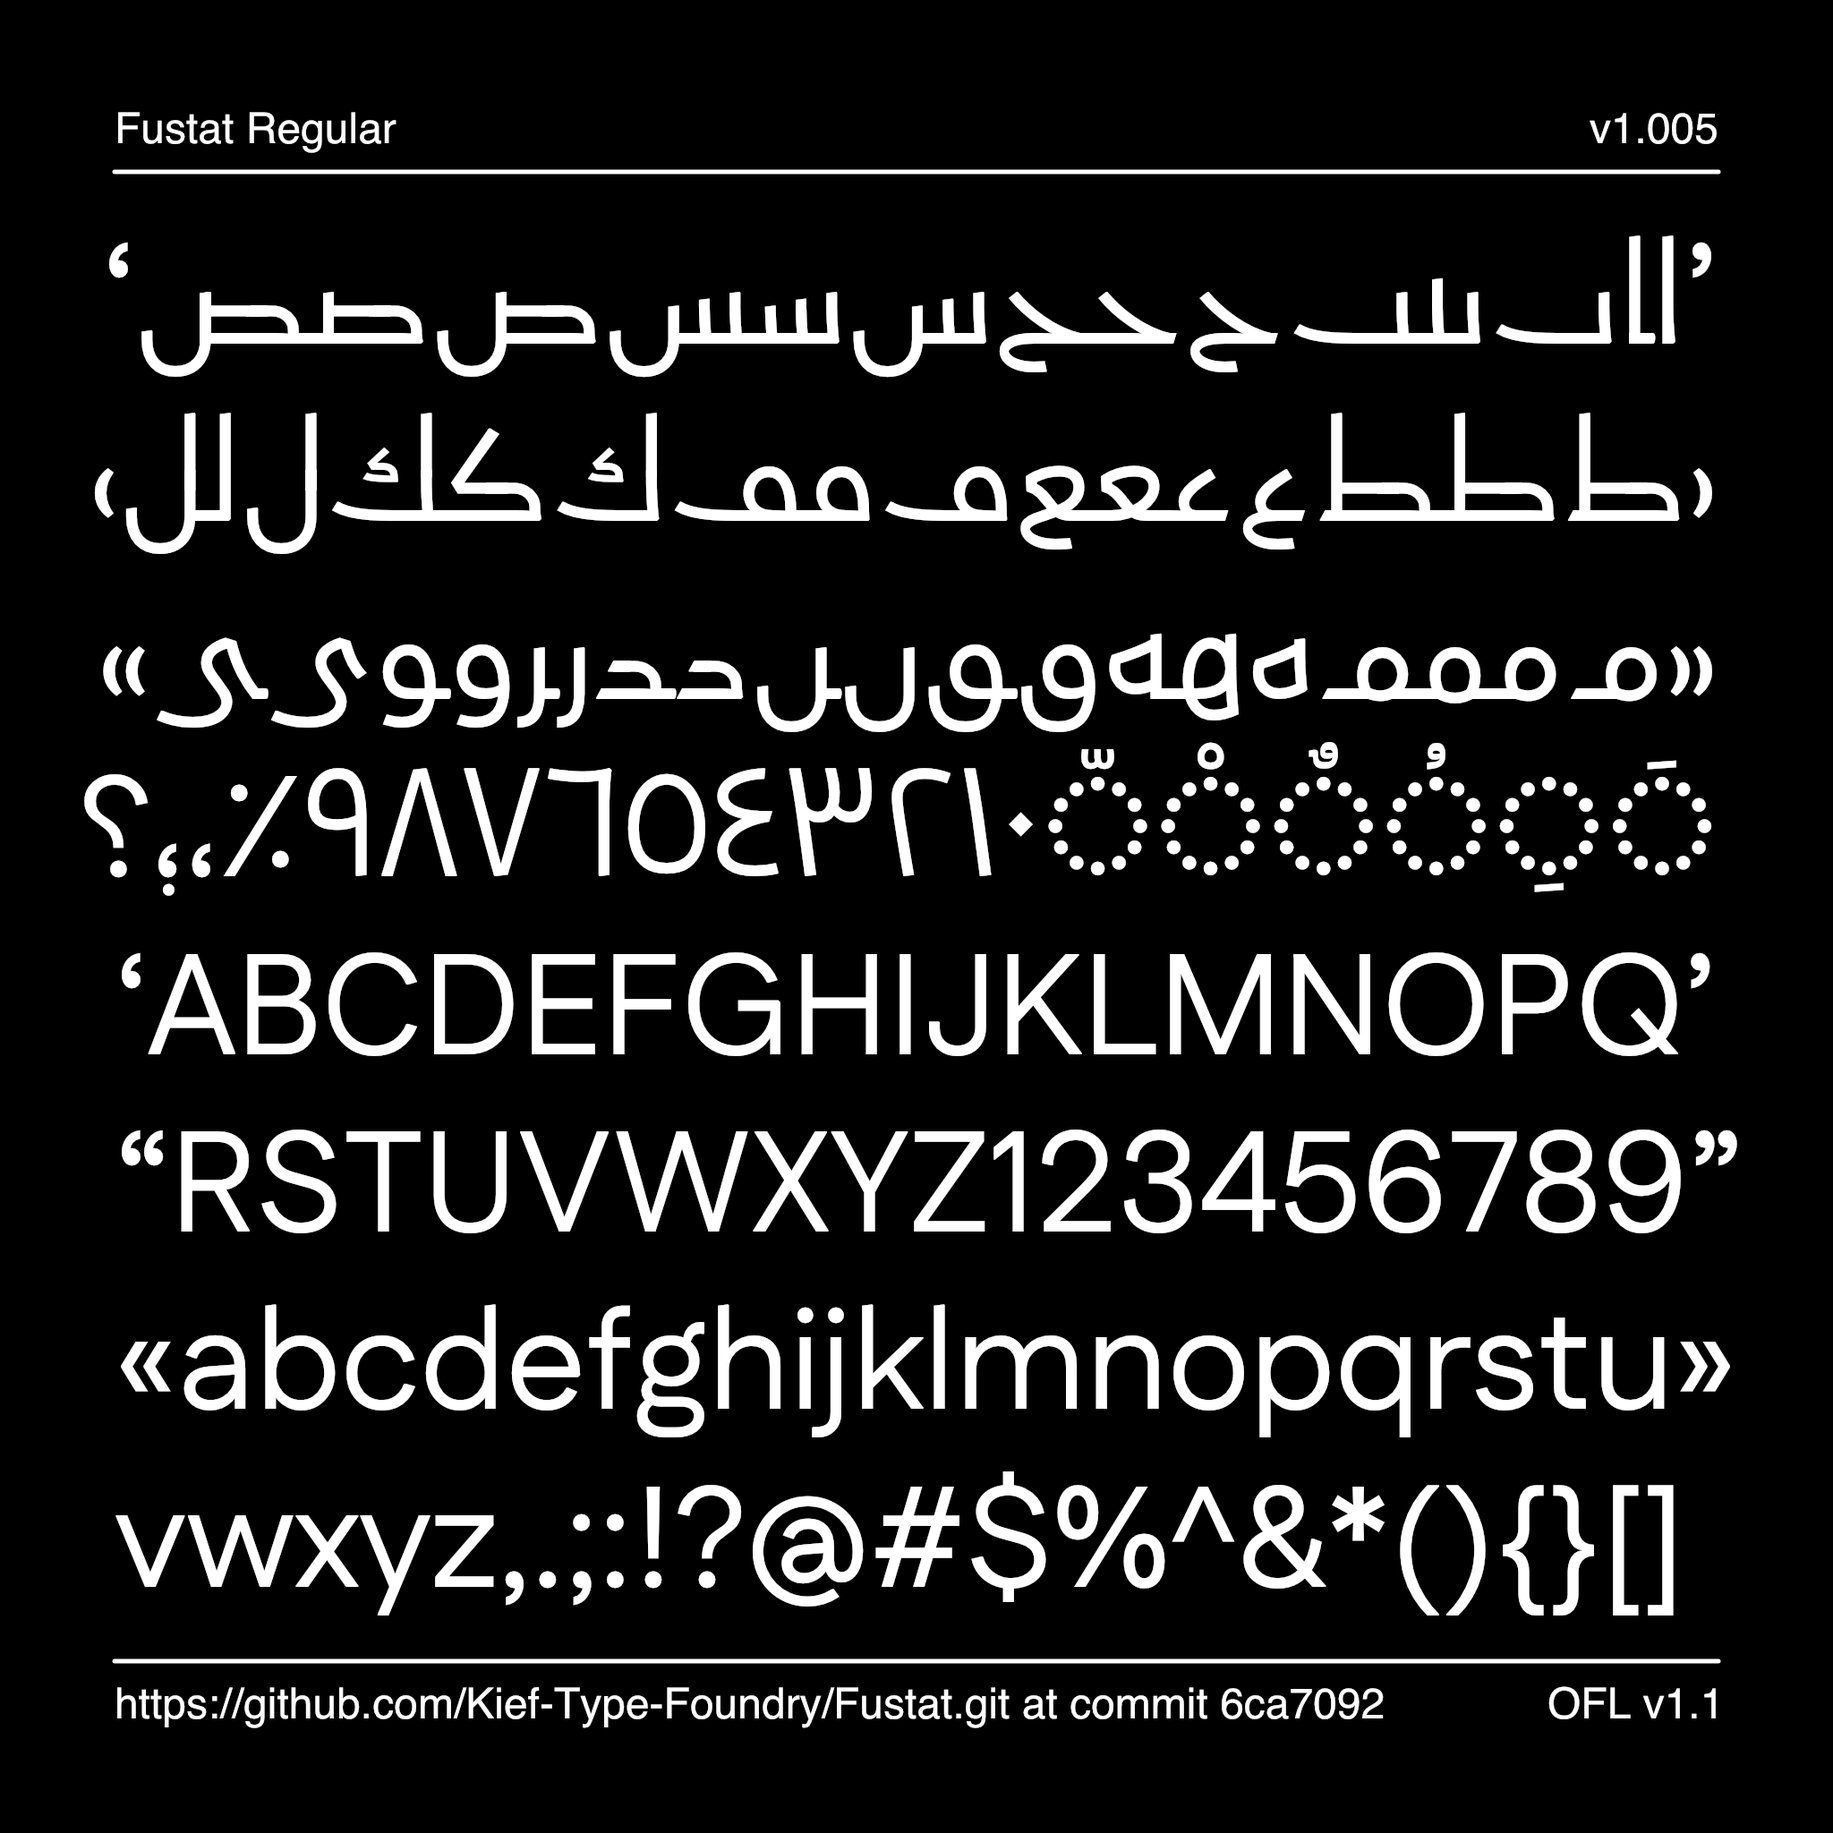
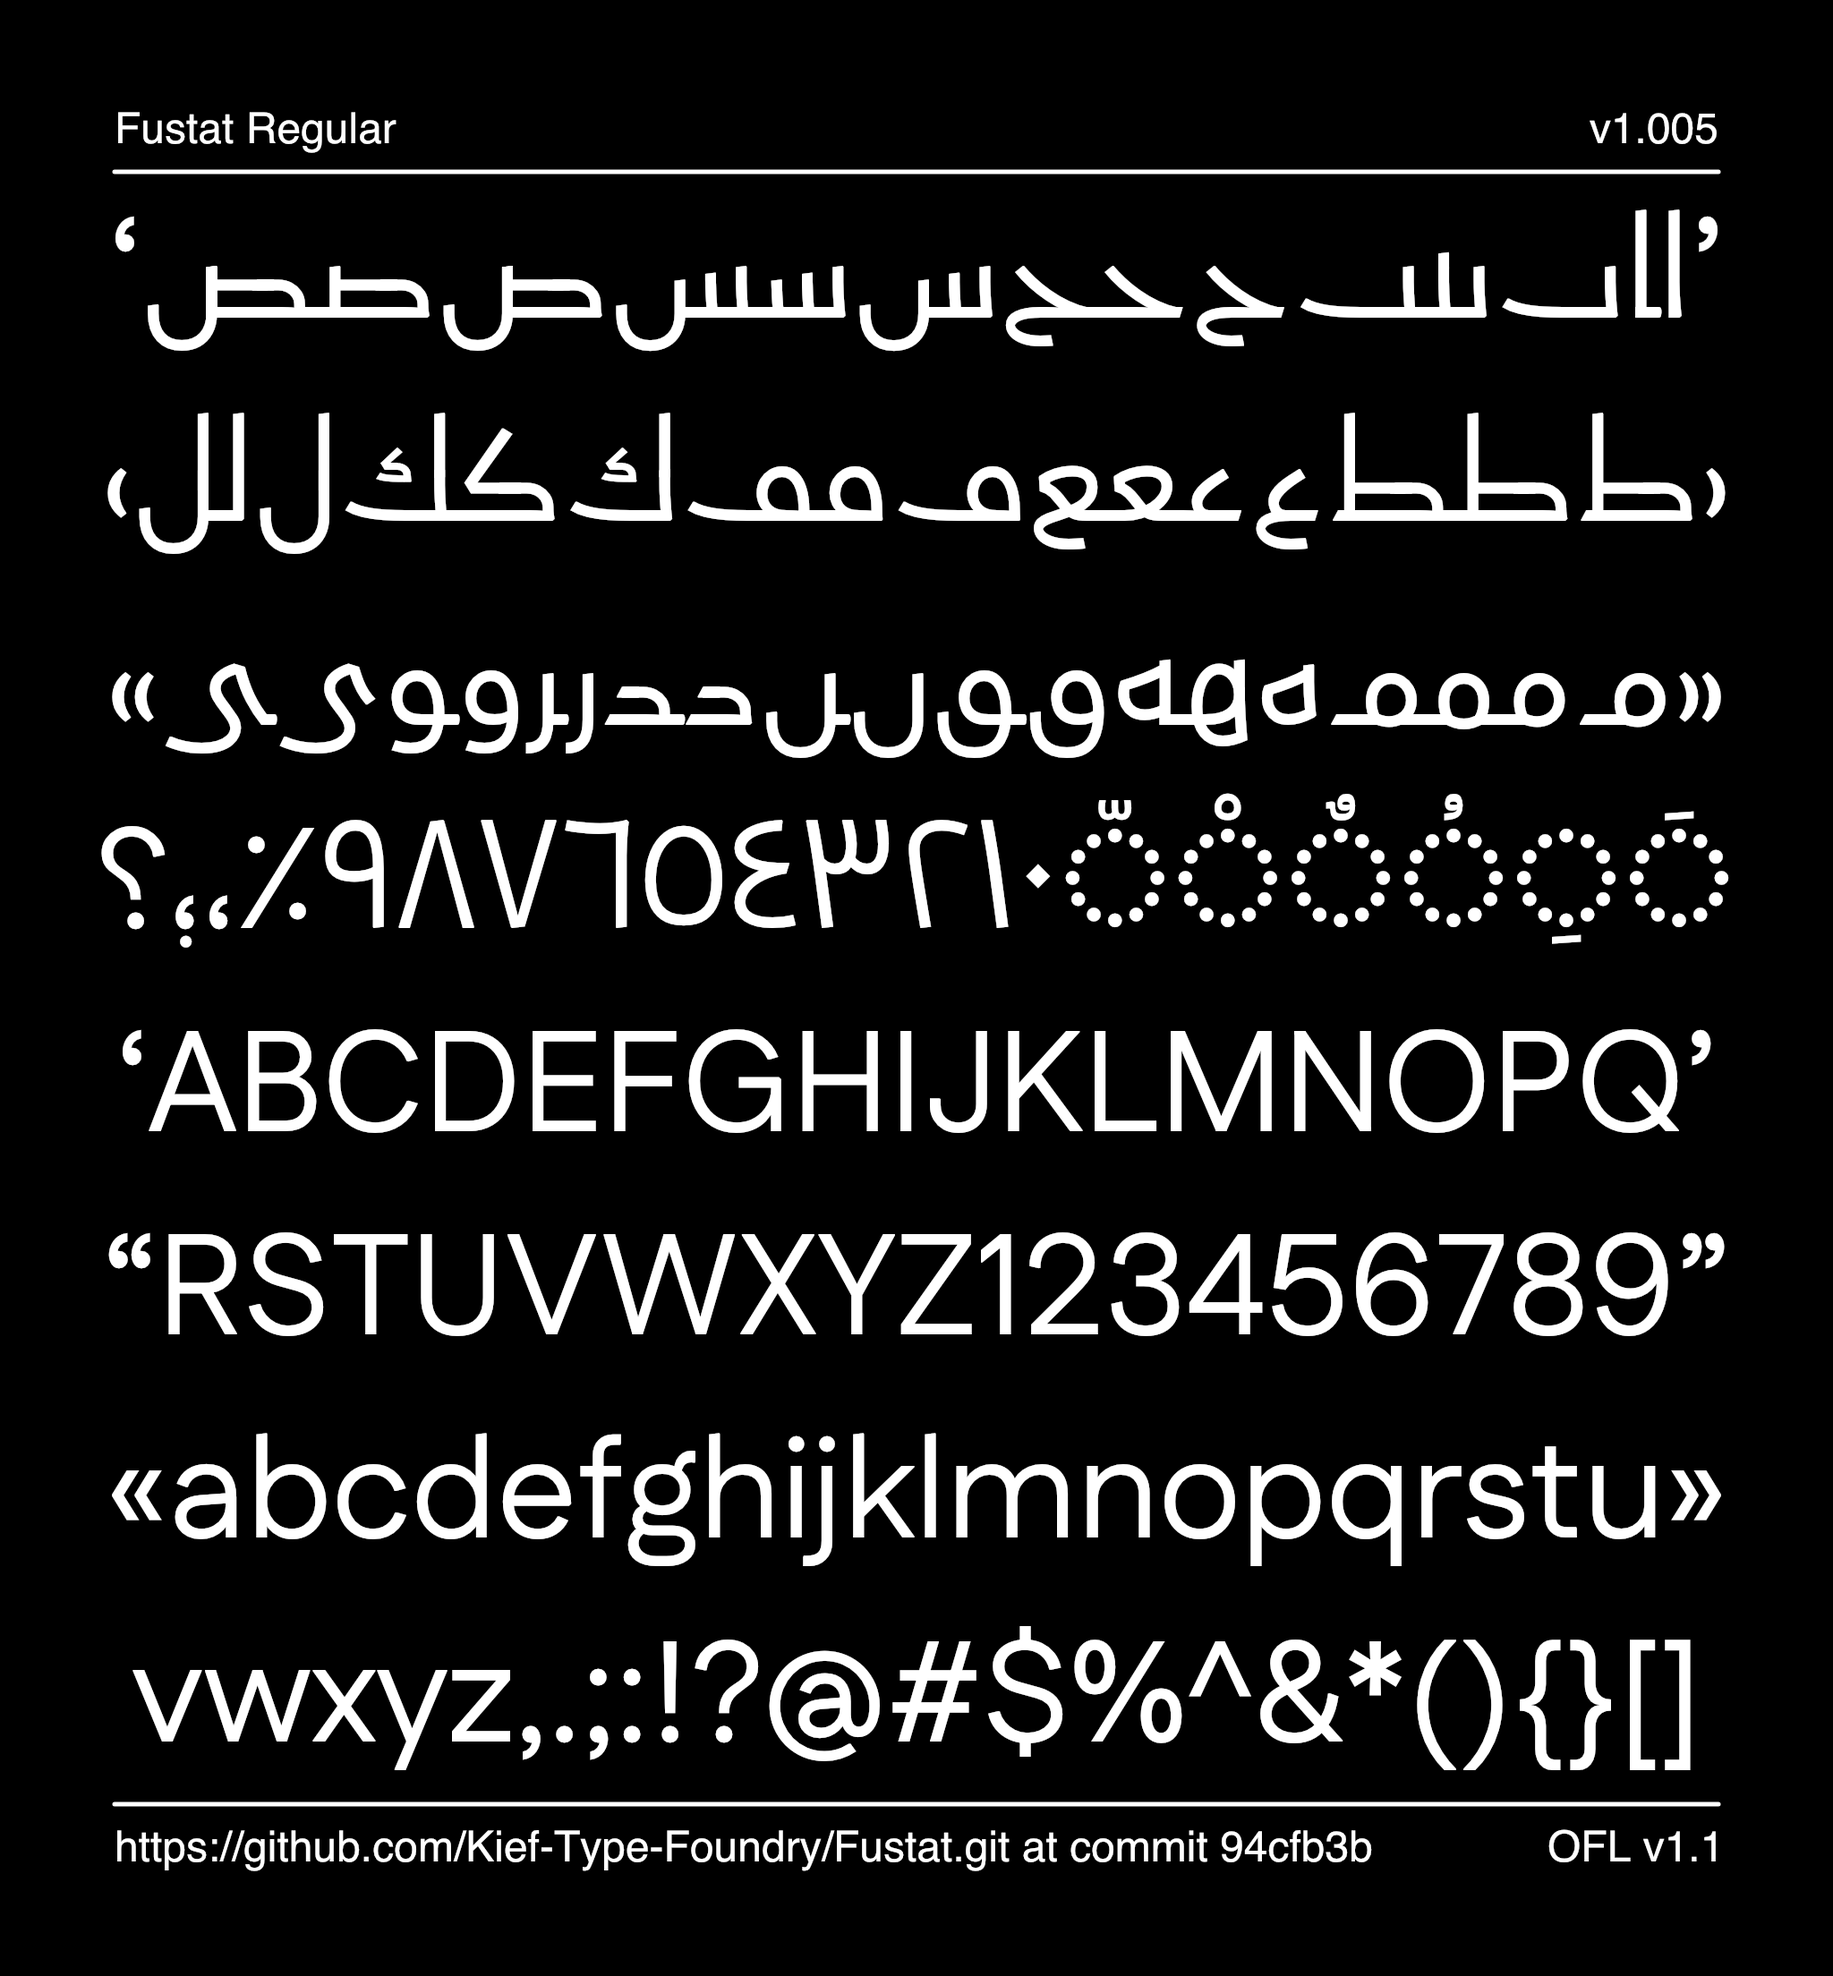
Improve image2 alignment and line spacing

diff --git a/documentation/image2.py b/documentation/image2.py
@@ -15,7 +15,7 @@ import sys
 import argparse
 
 # Constants, these are the main "settings" for the image
-WIDTH, HEIGHT, MARGIN, FRAMES = 2048, 2048, 128, 1
+WIDTH, HEIGHT, MARGIN, FRAMES = 2048, 2208, 128, 1
 FONT_PATH = "fonts/variable/Fustat[wght].ttf"
 FONT_LICENSE = "OFL v1.1"
 AUXILIARY_FONT = "Helvetica"
@@ -30,8 +30,6 @@ LINE_6 = "“RSTUVWXYZ123456789”"
 LINE_7 = "«abcdefghijklmnopqrstu»"
 LINE_8 = "vwxyz,.;:!?@#$%^&*(){}[]"
 BIG_TEXT_FONT_SIZE = 160
-BIG_TEXT_SIDE_MARGIN = MARGIN * 1
-BIG_TEXT_BOTTOM_MARGIN = MARGIN * 13
 
 GRID_VIEW = False  # Toggle this for a grid overlay
 
@@ -97,46 +95,14 @@ def draw_main_text():
     stroke(None)
     font(FONT_PATH)
     fontSize(BIG_TEXT_FONT_SIZE)
-    # Adjust this line to center main text manually.
-    # TODO: This should be done automatically when drawbot-skia
-    # has support for textBox() and FormattedString
-    LEADING = 1.55
     openTypeFeatures(kern=False)
-    text(LINE_1, (WIDTH - BIG_TEXT_SIDE_MARGIN, BIG_TEXT_BOTTOM_MARGIN))
-    text(
-        LINE_2,
-        (WIDTH - BIG_TEXT_SIDE_MARGIN, BIG_TEXT_BOTTOM_MARGIN - (MARGIN * LEADING)),
-    )
-    text(
-        LINE_3,
-        (
-            WIDTH - BIG_TEXT_SIDE_MARGIN,
-            BIG_TEXT_BOTTOM_MARGIN - (MARGIN * (LEADING * 2)),
-        ),
-    )
-    text(
-        LINE_4,
-        (
-            WIDTH - BIG_TEXT_SIDE_MARGIN,
-            BIG_TEXT_BOTTOM_MARGIN - (MARGIN * (LEADING * 3)),
-        ),
-    )
-    text(
-        LINE_5,
-        (BIG_TEXT_SIDE_MARGIN, BIG_TEXT_BOTTOM_MARGIN - (MARGIN * (LEADING * 4))),
-    )
-    text(
-        LINE_6,
-        (BIG_TEXT_SIDE_MARGIN, BIG_TEXT_BOTTOM_MARGIN - (MARGIN * (LEADING * 5))),
-    )
-    text(
-        LINE_7,
-        (BIG_TEXT_SIDE_MARGIN, BIG_TEXT_BOTTOM_MARGIN - (MARGIN * (LEADING * 6))),
-    )
-    text(
-        LINE_8,
-        (BIG_TEXT_SIDE_MARGIN, BIG_TEXT_BOTTOM_MARGIN - (MARGIN * (LEADING * 7))),
-    )
+
+    y = HEIGHT - MARGIN
+    for line in [LINE_1, LINE_2, LINE_3, LINE_4, LINE_5, LINE_6, LINE_7, LINE_8]:
+        _, h = textSize(line)
+        y -= h
+
+        text(line, (WIDTH / 2, y), "center")
 
 
 # Divider lines
